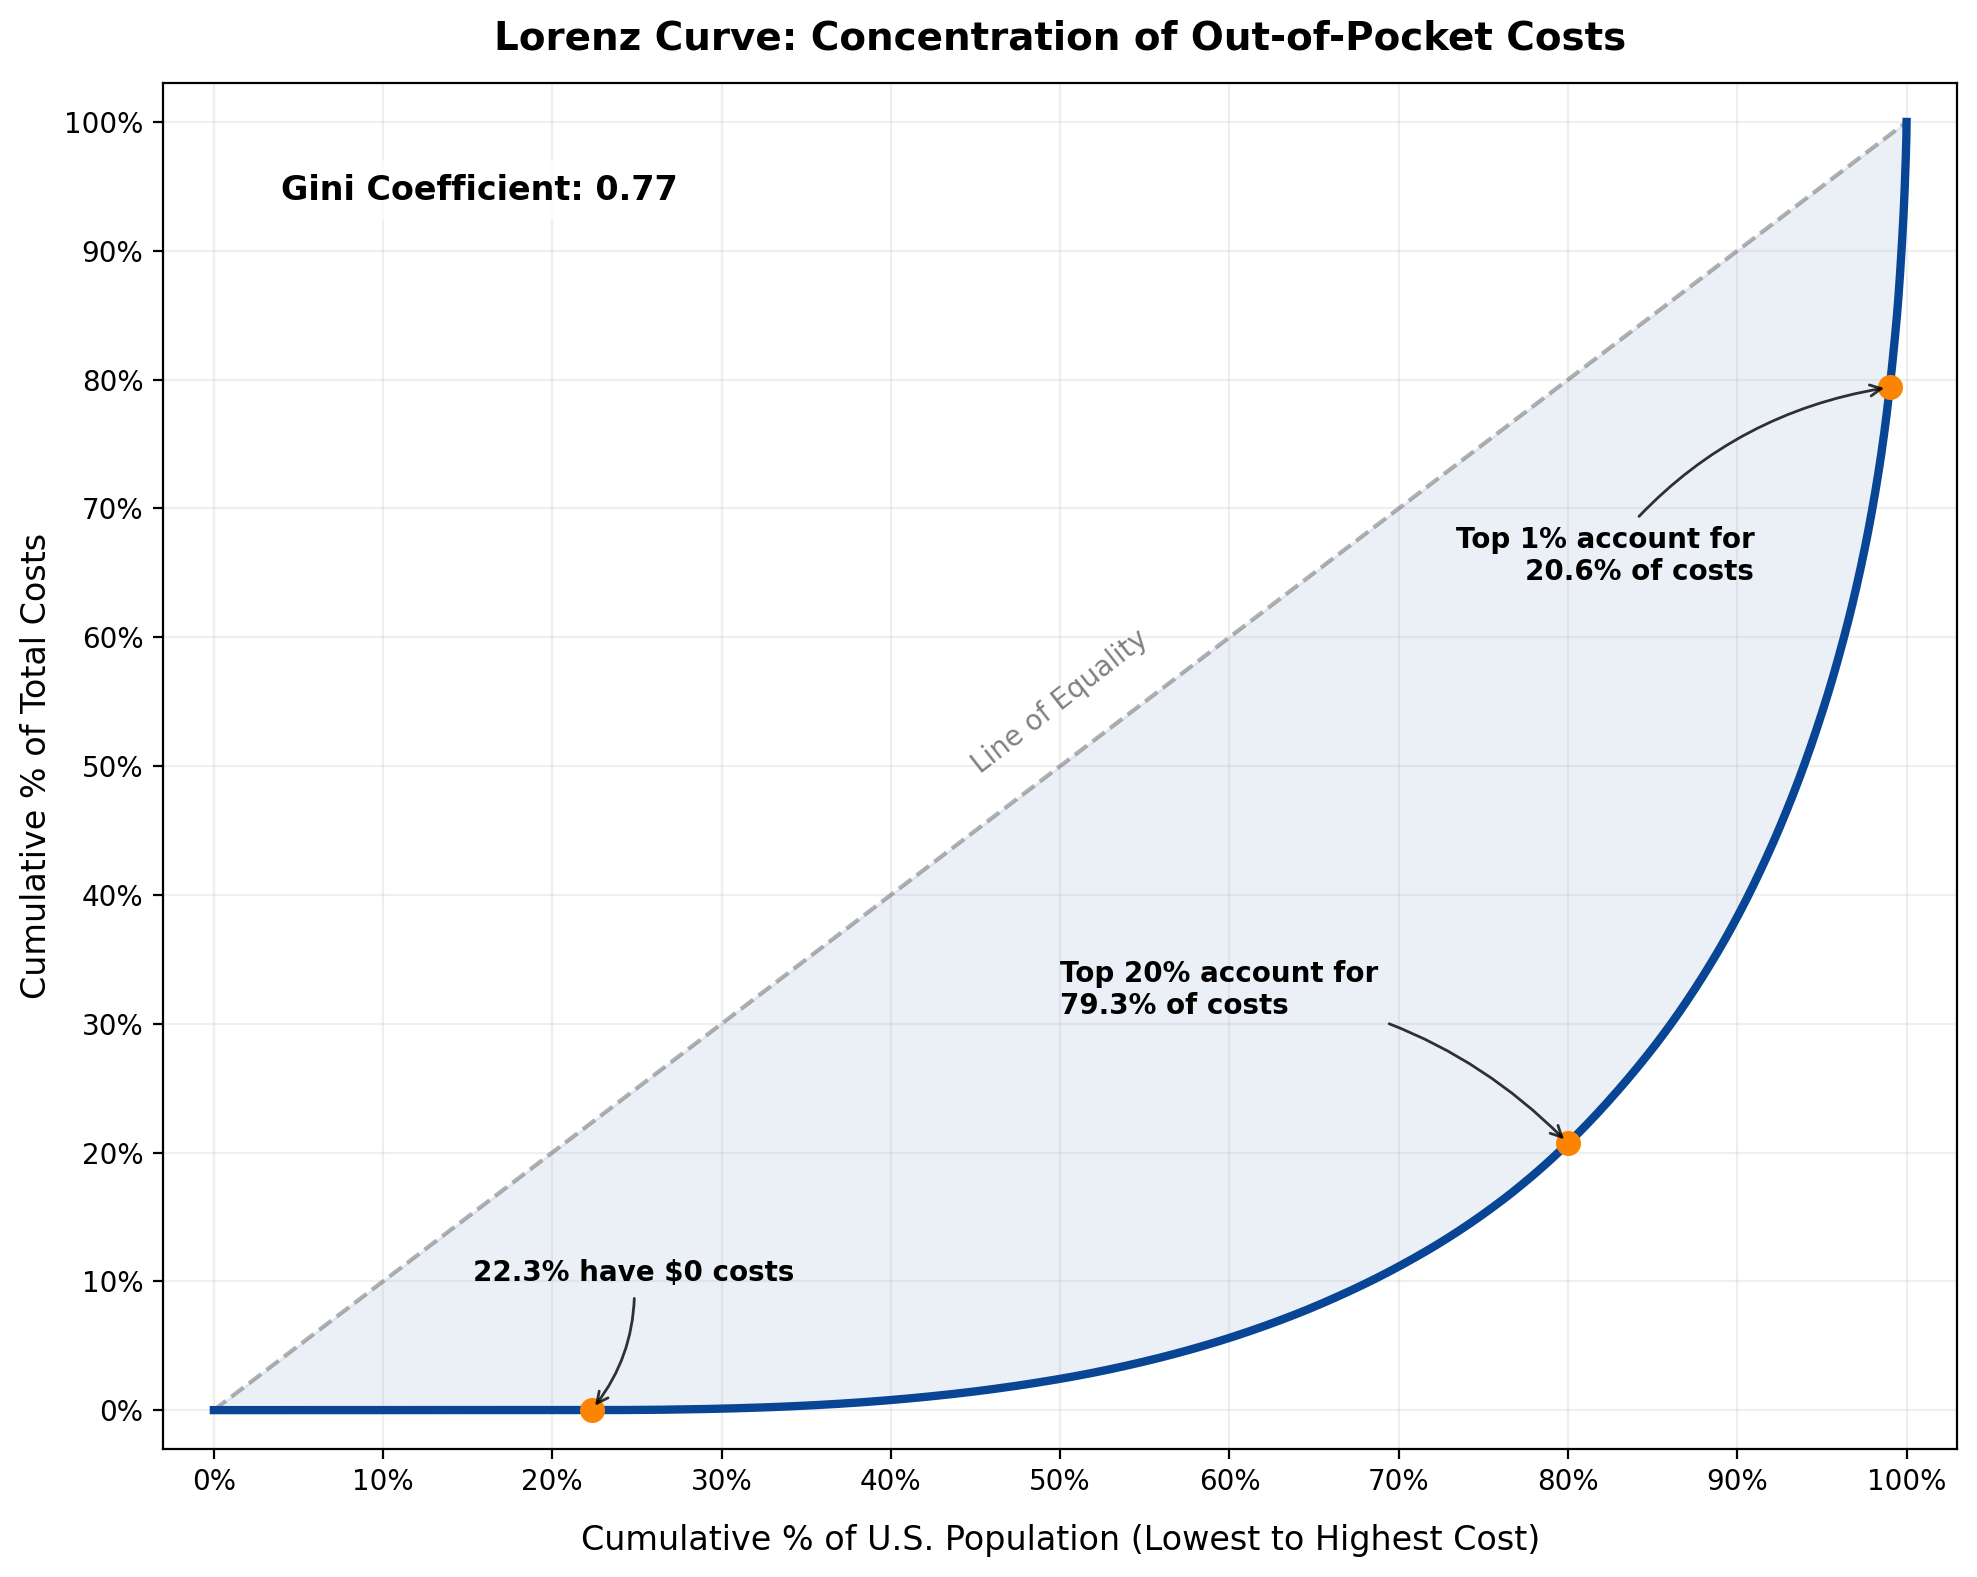
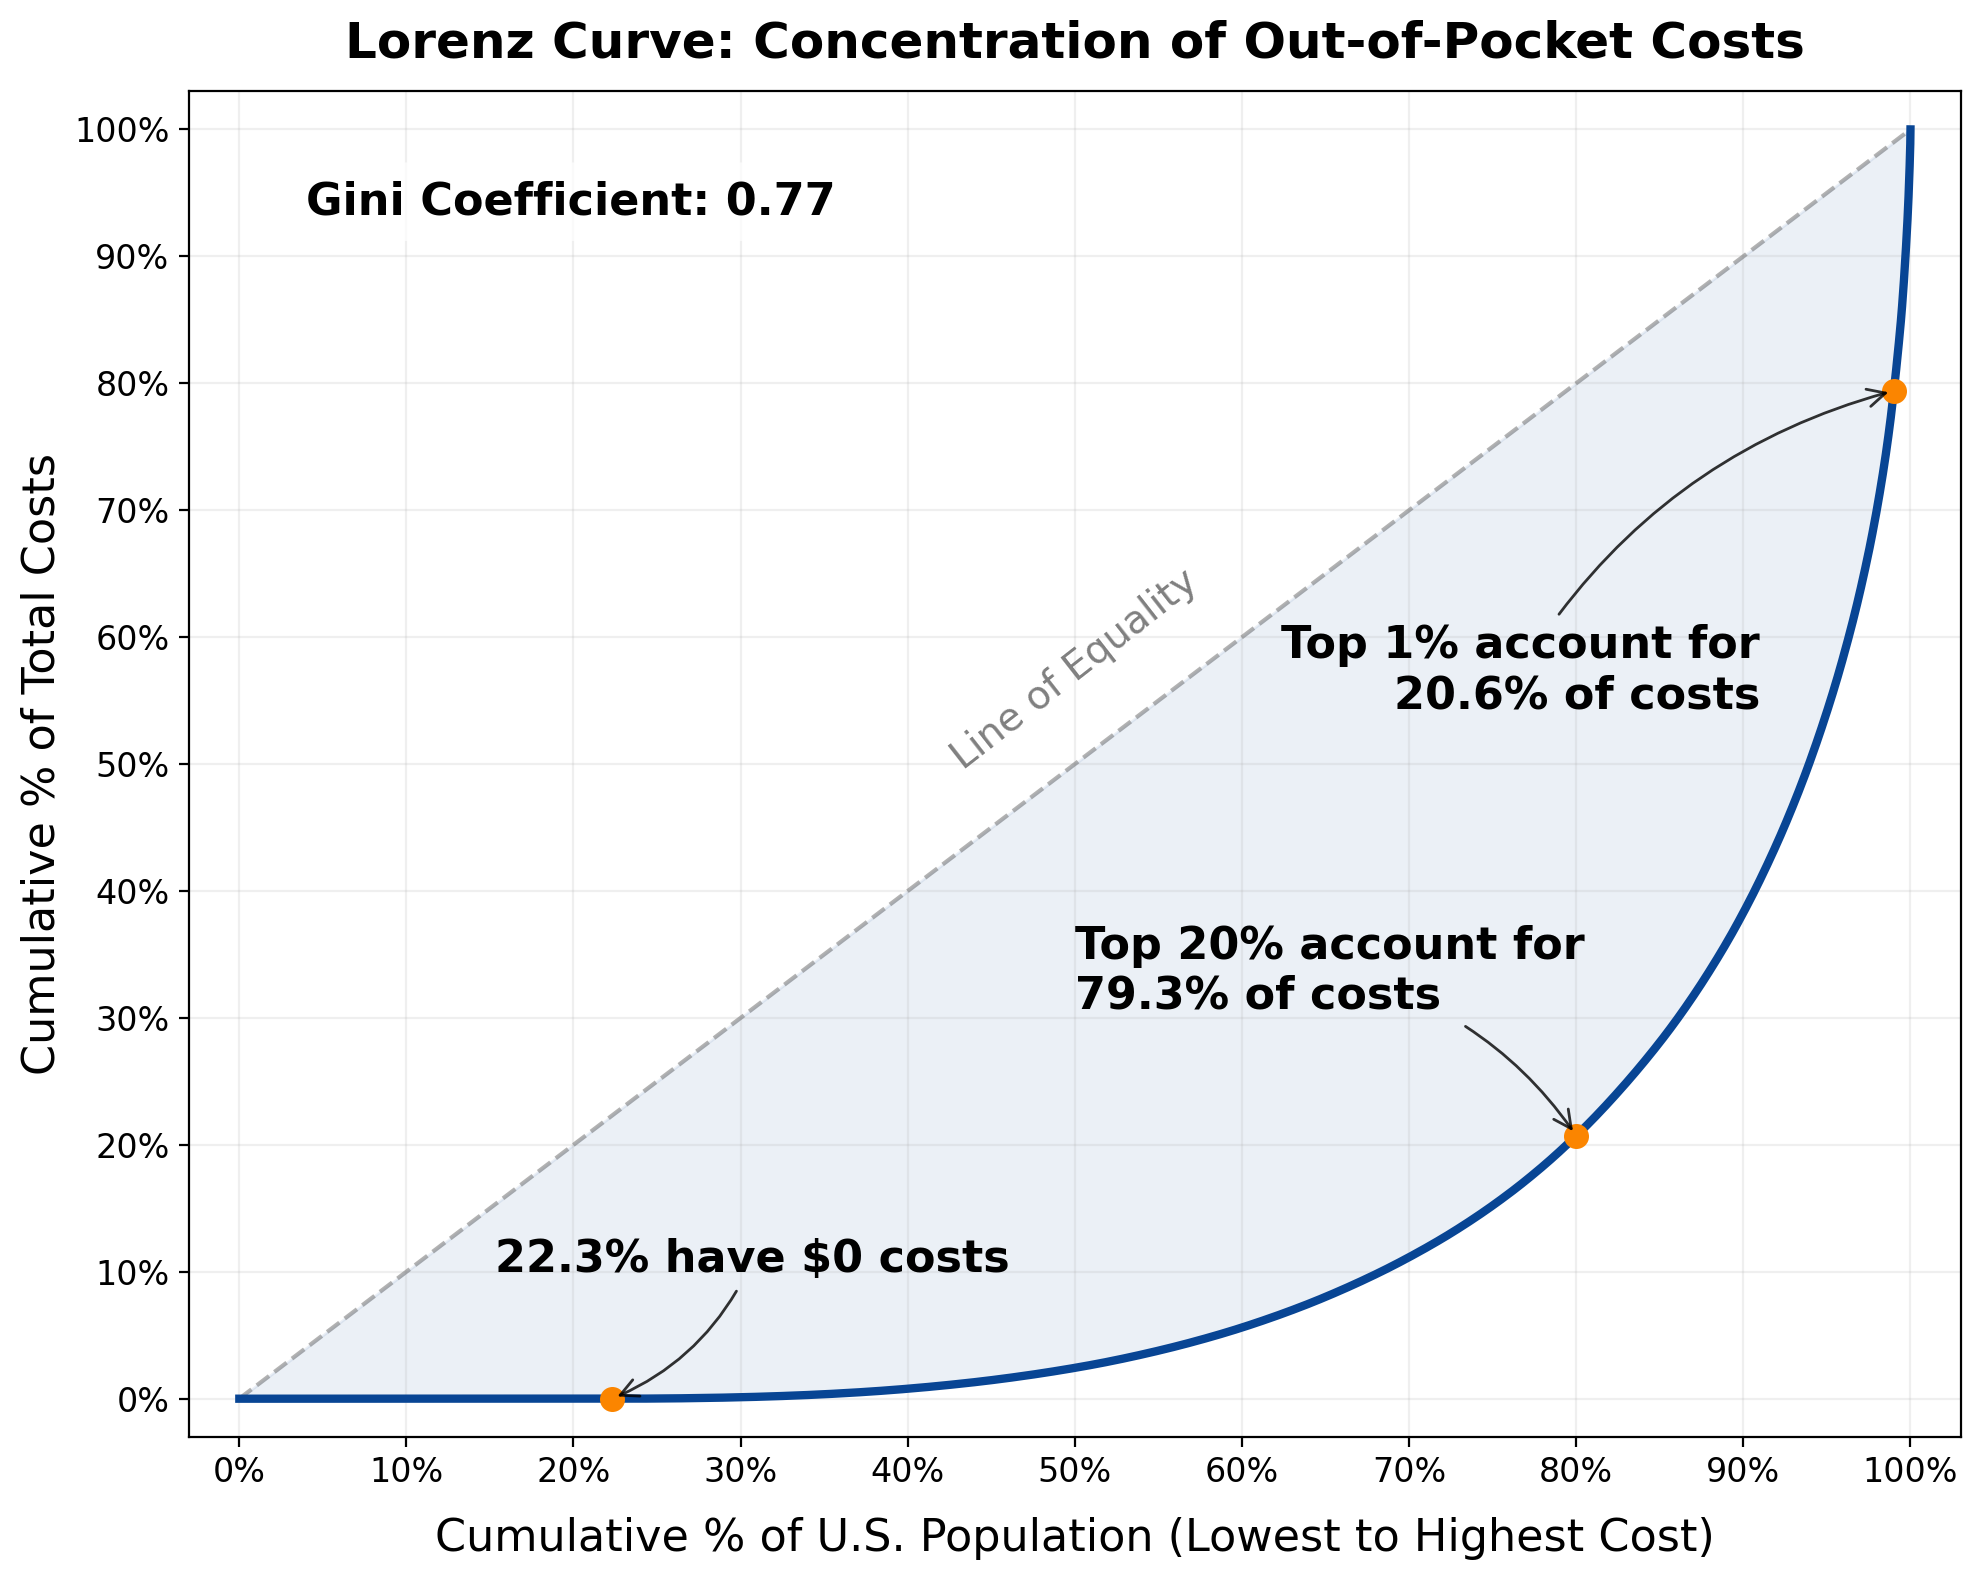
docs(eda): improve Lorenz curve readability

diff --git a/notebooks/1_eda_and_preprocessing.py b/notebooks/1_eda_and_preprocessing.py
@@ -691,13 +691,13 @@ def plot_lorenz_curve(df, column, weights=None, save_to_file=None):
     # Line of Equality (with label)
     plt.plot([0, 100], [0, 100], linestyle="--", color="gray", alpha=0.6)
     plt.text(50, 49, "Line of Equality", rotation=38, color="gray", 
-             fontsize=10, ha="center", va="bottom")
+             fontsize=14, ha="center", va="bottom")
 
     # Lorenz Curve
     plt.plot(cum_pct, cum_costs, color=POP_COLOR if weights else SAMPLE_COLOR, lw=3)
 
     # Add Gini Coefficient (in text box)
-    plt.text(4, 96, f"Gini Coefficient: {gini:.2f}", fontsize=12, fontweight="bold",
+    plt.text(4, 96, f"Gini Coefficient: {gini:.2f}", fontsize=16, fontweight="bold",
              va="top", bbox={"facecolor": "white", "alpha": 0.7, "edgecolor": "none", "boxstyle": "round,pad=0.4"})
 
     # Highlight Pareto Point (80/20 Rule) 
@@ -710,7 +710,7 @@ def plot_lorenz_curve(df, column, weights=None, save_to_file=None):
     plt.annotate(f"Top 20% account for\n{top_20_share:.1f}% of costs", 
                  xy=(x_80, y_80), xytext=(x_80 - 30, y_80 + 10),
                  arrowprops={"arrowstyle": "->", "color": "black", "connectionstyle": "arc3,rad=-0.2", "alpha": 0.8},
-                 fontsize=10, fontweight="bold")
+                 fontsize=16, fontweight="bold")
 
     # Highlight Top 1%
     idx_99 = (cum_pct - 99).abs().idxmin()
@@ -720,9 +720,9 @@ def plot_lorenz_curve(df, column, weights=None, save_to_file=None):
 
     plt.plot(x_99, y_99, "o", color="#fb8500", markersize=8)
     plt.annotate(f"Top 1% account for\n{top_1_share:.1f}% of costs", 
-                 xy=(x_99, y_99), xytext=(x_99 - 8, y_99 - 15),
+                 xy=(x_99, y_99), xytext=(x_99 - 8, y_99 - 25),
                  arrowprops={"arrowstyle": "->", "color": "black", "connectionstyle": "arc3,rad=-0.2", "alpha": 0.8},
-                 fontsize=10, fontweight="bold", ha="right")
+                 fontsize=16, fontweight="bold", ha="right")
 
     # Highlight Zero-Cost Threshold
     zero_mask = df[column].eq(0)
@@ -735,18 +735,18 @@ def plot_lorenz_curve(df, column, weights=None, save_to_file=None):
     plt.annotate(f"{zero_pct:.1f}% have $0 costs", 
                  xy=(zero_pct, 0), xytext=(zero_pct - 7, 10),
                  arrowprops={"arrowstyle": "->", "color": "black", "connectionstyle": "arc3,rad=-0.2", "alpha": 0.8},
-                 fontsize=10, fontweight="bold")
+                 fontsize=16, fontweight="bold")
 
     # Fill for emphasis (The "Inequality Gap")
     plt.fill_between(cum_pct, cum_costs, cum_pct, color=POP_COLOR if weights else SAMPLE_COLOR, alpha=0.08)
 
     # Customize
-    plt.title(f"Lorenz Curve: Concentration of {DISPLAY_LABELS.get(column, column)}", fontsize=14, fontweight="bold", pad=12)
-    plt.xlabel(f"Cumulative % of {'U.S. Population' if weights else 'Sample'} (Lowest to Highest Cost)", fontsize=12, labelpad=10)
-    plt.ylabel("Cumulative % of Total Costs", fontsize=12)
+    plt.title(f"Lorenz Curve: Concentration of {DISPLAY_LABELS.get(column, column)}", fontsize=18, fontweight="bold", pad=12)
+    plt.xlabel(f"Cumulative % of {'U.S. Population' if weights else 'Sample'} (Lowest to Highest Cost)", fontsize=16, labelpad=10)
+    plt.ylabel("Cumulative % of Total Costs", fontsize=16)
     plt.grid(True, alpha=0.2)
-    plt.xticks(range(0, 101, 10))
-    plt.yticks(range(0, 101, 10))
+    plt.xticks(range(0, 101, 10), fontsize=12)
+    plt.yticks(range(0, 101, 10), fontsize=12)
     plt.xlim(-3, 103)  # Adds space around the curve so no overlap with axis
     plt.ylim(-3, 103)
     plt.gca().xaxis.set_major_formatter(mtick.PercentFormatter())
